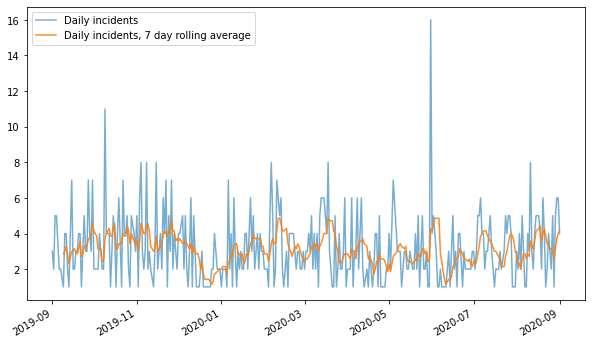
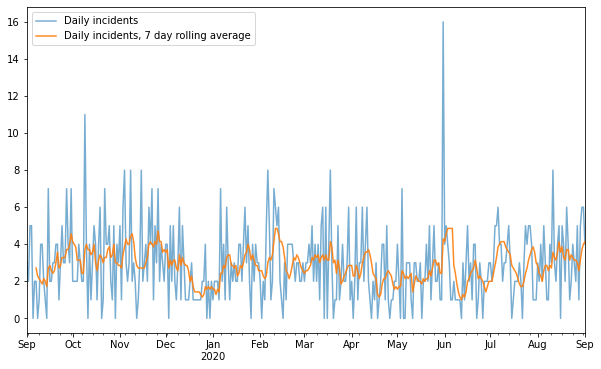
Fixed graphs in hyde park crime

Changed region(s): [[0.0, 0.0, 1.0, 0.9884]]

diff --git a/posts/hyde_park_crime_map.html b/posts/hyde_park_crime_map.html
@@ -63,16 +63,17 @@
             <a href="../img/ucpd_map2.png"><img class="aligncenter" src="../img/ucpd_map2.png" width=80% heigh=auto>
             <figcaption style="text-align: center">Click to see the full-size image</figcaption></a>
           </figure>
-          <p>To create this, I used Python's Requests and Beautiful Soup libraries to scrape the incident report archives, gathering all incidents from 1 September 2019 to 1 September 2020. I then cleaned up the data and used the <a href="https://pypi.org/project/geocoder/">Geocoder</a> Python library to get GPS coordinates for each incident address. (I wasn't able to get coordinates for some events that didn't occur at proper numeric addresses.) The final product is just a Matplotlib scatterplot of those coordinates overlaid on an <a href="openstreetmap.org">OpenStreetMap</a> view of Hyde Park.</p>
+          <p>To create this, I used Python's Requests and Beautiful Soup libraries to scrape the incident report archives, gathering all incidents from 1 September 2019 to 1 September 2020. I then cleaned up the data and used the <a href="https://pypi.org/project/geocoder/">Geocoder</a> Python library to get GPS coordinates for each incident address. (I wasn't able to get coordinates for some events that didn't occur at proper numeric addresses.) The final product is just a Matplotlib scatterplot of those coordinates overlaid on an <a href="https://www.openstreetmap.org/">OpenStreetMap</a> view of Hyde Park.</p>
+          <p>You can see that most incidents are concentrated at the University of Chicago hospital, with a few on the university campus, and most of the rest around the main stores and other businesses in the area. There are, of course, a significant number of incidents in residential areas as well.
           <hr>
           <p>The incidents also have information about when they were reported, so I generated plots of the days and times of day that they were generally reported:</p>
           <a href="../img/hyde_park_daily_incidents.png"><img class="aligncenter" src="../img/hyde_park_daily_incidents.png" width=90% heigh=auto></a>
           <a href="../img/hyde_park_hourly_incidents.png"><img class="aligncenter" src="../img/hyde_park_hourly_incidents.png" width=90% heigh=auto></a>
-          <p>The daily counts are interesting -- you can clearly see a sizable decrease in crimes during the holidays, and the July unrest shows up as well. The hourly counts are not quite what I expected; I found it odd that most crimes were committed in the middle of the day, although I guess that is when most people are out and about.</p>
+          <p>The daily counts are interesting -- you can clearly see a sizable decrease in crimes during the holidays, and the unrest in June shows up as well. The hourly counts are not quite what I expected; I found it odd that most crimes were committed in the middle of the day, although I guess that is when most people are out and about.</p>
           <p>I also broke down the hourly counts by type of crime, as you can see below.</p>
           <a href="../img/thefts_robberies_by_hour.png"><img class="aligncenter" src="../img/thefts_robberies_by_hour.png" width=90% heigh=auto></a>
           <a href="../img/hyde_park_daily_incidents.png"><img class="aligncenter" src="../img/violent_crimes_hourly.png" width=90% heigh=auto></a>
-          <p>Overall, the data are interesting and worth perusing for anyone who lives in Hyde Park, although I didn't come across anything too surprising.</p>
+          <p>Overall, the data are interesting and worth perusing for anyone who lives in Hyde Park. I'm sure there are many more insights that could be extracted from the data I collected.</p>
 				</div>
 				<div class="foot-post">
 					<!-- place footer here -->
